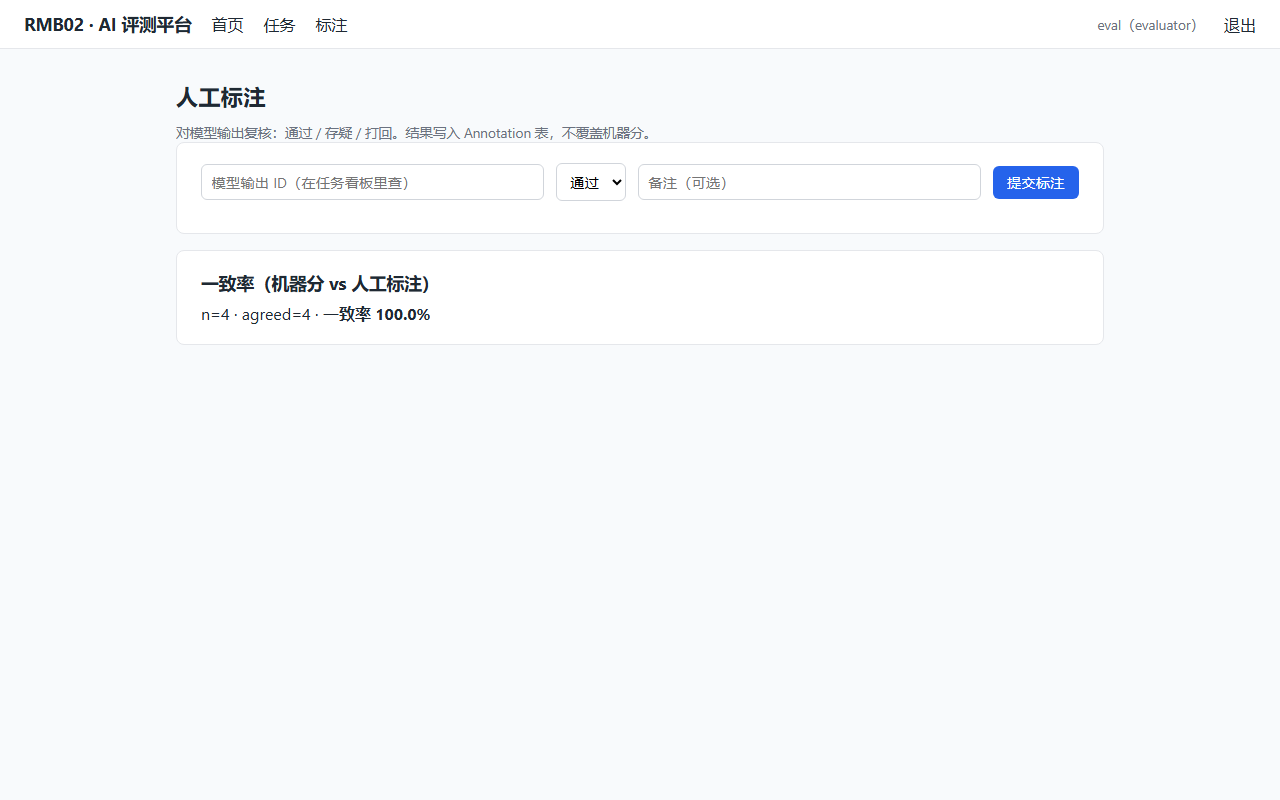
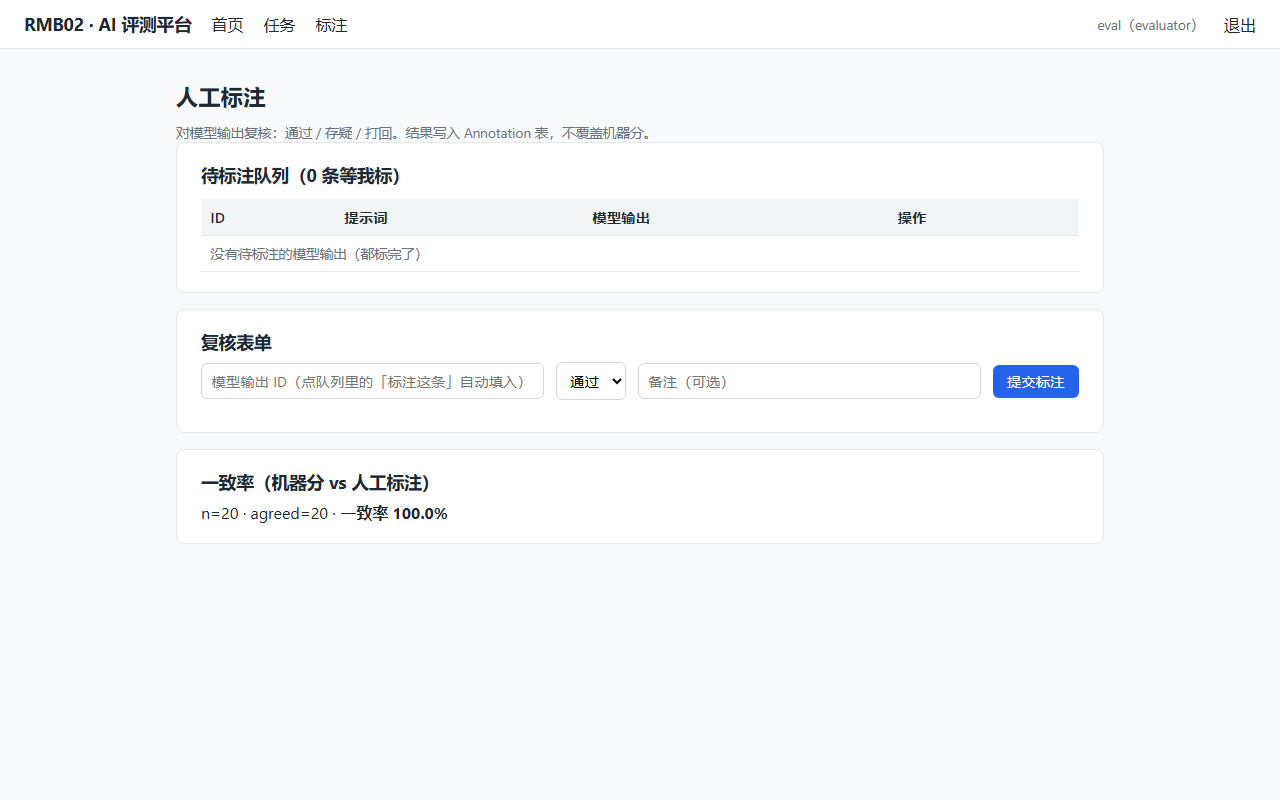
fix(终验): 硬编码路径改相对/skipif + README 界面节 + 标注待标注队列 + demo_seed 真跑(通过率非0)+n=20

diff --git a/templates/annotate.html b/templates/annotate.html
@@ -4,8 +4,29 @@
 <h1>人工标注</h1>
 <p class="muted">对模型输出复核：通过 / 存疑 / 打回。结果写入 Annotation 表，不覆盖机器分。</p>
 <div class="card">
+  <h2>待标注队列（{{ pending|length }} 条等我标）</h2>
+  <table>
+    <thead><tr><th>ID</th><th>提示词</th><th>模型输出</th><th>操作</th></tr></thead>
+    <tbody id="queue">
+      {% if pending %}
+        {% for p in pending %}
+        <tr>
+          <td>{{ p.id }}</td>
+          <td>{{ p.prompt }}</td>
+          <td class="muted">{{ p.output[:80] }}{% if p.output|length > 80 %}…{% endif %}</td>
+          <td><button class="ghost" onclick="fillForm({{ p.id }}, '{{ p.prompt }}')">标注这条</button></td>
+        </tr>
+        {% endfor %}
+      {% else %}
+        <tr><td colspan="4" class="muted">没有待标注的模型输出（都标完了）</td></tr>
+      {% endif %}
+    </tbody>
+  </table>
+</div>
+<div class="card">
+  <h2>复核表单</h2>
   <div class="row" style="margin-bottom:0.75rem;">
-    <input id="mo_id" placeholder="模型输出 ID（在任务看板里查）" style="flex:1;">
+    <input id="mo_id" placeholder="模型输出 ID（点队列里的「标注这条」自动填入）" style="flex:1;">
     <select id="verdict">
       <option value="agree">通过</option>
       <option value="doubt">存疑</option>
@@ -16,6 +37,31 @@
   </div>
   <div class="error" id="err" style="display:none;"></div>
   <div id="ok" style="display:none;color:#15803d;margin-top:0.5rem;"></div>
+  <script>
+  function fillForm(id, prompt) {
+    document.getElementById('mo_id').value = id;
+    document.getElementById('ok').style.display = 'none';
+    document.getElementById('err').style.display = 'none';
+  }
+  async function submitAnn() {
+    const r = await fetch('/api/annotations', {
+      method: 'POST', headers: {'Content-Type': 'application/json'},
+      body: JSON.stringify({model_output_id: parseInt(document.getElementById('mo_id').value),
+                            verdict: document.getElementById('verdict').value,
+                            note: document.getElementById('note').value || null}),
+    });
+    if (r.ok) {
+      document.getElementById('err').style.display='none';
+      document.getElementById('ok').style.display='block';
+      document.getElementById('ok').textContent = '标注成功';
+      setTimeout(()=>location.reload(), 800);
+    } else {
+      const d = await r.json();
+      document.getElementById('err').style.display='block';
+      document.getElementById('err').textContent = d.error || '提交失败';
+    }
+  }
+  </script>
 </div>
 <div class="card">
   <h2>一致率（机器分 vs 人工标注）</h2>

diff --git a/demo_seed.py b/demo_seed.py
@@ -81,14 +81,18 @@ def seed():
             db.session.commit()
             db.session.refresh(task)
 
-        # 用例（幂等：清旧的重新生成）
-        from models import Case
+        # 用例（幂等：清旧的重新生成）+ 真跑一遍（通过率非 0）
+        from models import Case, CaseRun
+        from runner import run_case
+        from demo_target.app import app as demo_app
+
         Case.query.filter_by(task_id=task.id).delete()
         contracts = Contract.query.filter_by(target_id=target.id).all()
         cc = [{'method': c.method, 'path': c.path,
                'fields': __import__('json').loads(c.fields_json or '[]')}
               for c in contracts]
         cases = generate_all(cc)
+        valid_cases = []
         for case in cases:
             case.task_id = task.id
             status, layer, reason = validate_case(case, cc)
@@ -96,11 +100,28 @@ def seed():
             case.invalid_layer = layer
             case.invalid_reason = reason
             db.session.add(case)
+            if status == 'valid':
+                valid_cases.append(case)
+        db.session.flush()
+
+        # 🔴 真跑：valid 用例打 demo_target（离线 test_client，不依赖外部服务）
+        run_count = 0
+        for case in valid_cases:
+            result = run_case(case, base_url='', offline_app=demo_app)
+            db.session.add(CaseRun(
+                case_id=case.id,
+                status_code=result['status_code'],
+                response_body=result['response_body'],
+                passed=result['passed'],
+                error=result['error'],
+                duration_ms=result['duration_ms'],
+            ))
+            if result['passed']:
+                run_count += 1
         db.session.commit()
 
-        # 模型输出 + 打分（n=5，模拟分数带轻微波动）
+        # 模型输出 + 打分（n=20，模拟分数带轻微波动 —— 一致率样本补到 ≥20）
         ModelOutput.query.filter_by(task_id=task.id).delete()
-        Score.query.filter_by(model_output_id=None).delete()
         outputs = []
         prompts = [
             ('健康检查返回什么', '{"status": "ok", "service": "rmb02"}'),
@@ -109,33 +130,41 @@ def seed():
             ('登录演示', '{"token": "tok-demo-0"}'),
             ('统计接口', '{"items": 2, "tokens": 1}'),
         ]
-        for i, (prompt, output) in enumerate(prompts):
+        # 扩到 20 条：5 条基础 + 15 条变体
+        all_prompts = list(prompts)
+        for i in range(15):
+            base = prompts[i % 5]
+            all_prompts.append((f'{base[0]}（变体{i}）', base[1]))
+        for i, (prompt, output) in enumerate(all_prompts):
+            high = i < 16   # 前 16 条机器高分，后 4 条低分（一致率有区分度）
+            total = 85.0 if high else 30.0
             mo = ModelOutput(task_id=task.id, prompt=prompt, output=output,
                              model='local-rule', run_index=0)
             db.session.add(mo)
             db.session.flush()
             db.session.add(Score(model_output_id=mo.id,
-                                 accuracy=80 + i * 2, relevance=85,
+                                 accuracy=total, relevance=85,
                                  format=90, hallucination=100,
-                                 total=round(80 + i * 2 * 0.4 + 85 * 0.3 + 90 * 0.2 + 100 * 0.1, 1),
-                                 run_index=0))
+                                 total=total, run_index=0))
             outputs.append(mo.id)
         db.session.commit()
 
-        # 标注（标注员 id=2 annotator）+ 结算（评测工程师 id=1）
-        for out_id in outputs[:4]:
+        # 标注（标注员 id=2 annotator，n=20：16 条 agree + 4 条 doubt）+ 结算
+        for i, out_id in enumerate(outputs):
+            verdict = 'agree' if i < 16 else 'doubt'
             if not Annotation.query.filter_by(model_output_id=out_id,
                                               annotator_id=2).first():
                 db.session.add(Annotation(model_output_id=out_id,
-                                          annotator_id=2, verdict='agree'))
+                                          annotator_id=2, verdict=verdict))
         if not Settlement.query.filter_by(annotator_id=2, task_id=task.id).first():
             db.session.add(Settlement(annotator_id=2, task_id=task.id,
-                                      case_count=4, unit_price=0.5, amount=2.0))
+                                      case_count=20, unit_price=0.5, amount=10.0))
         db.session.commit()
 
         # 🔴 控制台 GBK 不编 emoji，用纯文本（经验库铁律：中文/特殊字符落盘再读）
         print(f'[seed] demo ready: target={target.id} task={task.id} '
-              f'outputs={len(outputs)} annotations=4 settlement=2.0元')
+              f'cases={len(valid_cases)} passed={run_count} '
+              f'outputs={len(outputs)} annotations=20 settlement=10.0元')
 
 
 if __name__ == '__main__':

diff --git a/api.py b/api.py
@@ -225,6 +225,23 @@ def register_api_blueprint():
 
         return jsonify(agreement_rate())
 
+    @bp.get('/api/annotations/pending')
+    @login_required('annotate')
+    def pending_annotations():
+        """🔴 待标注队列（产品闭环）：该标注员还没标过的模型输出。
+
+        标注员登录后应看到「有 N 条等我标」，点进去标 —— 不是手动输 ID。
+        """
+        from models import Annotation, ModelOutput
+
+        annotated = {a.model_output_id for a in Annotation.query.all()}
+        rows = ModelOutput.query.order_by(ModelOutput.id).all()
+        pending = [mo for mo in rows if mo.id not in annotated]
+        return jsonify([{
+            'id': mo.id, 'prompt': mo.prompt[:80], 'output': mo.output[:200],
+            'task_id': mo.task_id,
+        } for mo in pending])
+
     @bp.post('/api/settlements')
     @login_required('manage_targets')
     def create_settlement():

diff --git a/pages.py b/pages.py
@@ -44,8 +44,20 @@ def register_pages_blueprint():
     @login_required('view_all')
     def annotate():
         from annotation import agreement_rate
+        from models import Annotation, ModelOutput
 
-        return render_template('annotate.html', agreement=agreement_rate())
+        # 🔴 待标注队列（产品闭环）：没标过的模型输出
+        annotated = {a.model_output_id for a in Annotation.query.all()}
+        pending = [mo for mo in ModelOutput.query.order_by(ModelOutput.id).all()
+                   if mo.id not in annotated]
+        return render_template(
+            'annotate.html',
+            agreement=agreement_rate(),
+            pending=[{
+                'id': mo.id, 'prompt': mo.prompt[:80], 'output': (mo.output or '')[:200],
+                'task_id': mo.task_id,
+            } for mo in pending],
+        )
 
     @bp.get('/report/<int:task_id>')
     @login_required('view_all')

diff --git a/README.md b/README.md
@@ -40,6 +40,21 @@ docker build -t rmb02 . && docker run -p 5102:5102 -v rmb02-data:/app/data rmb02
 
 ---
 
+## 界面
+
+| 任务列表 | 人工标注 |
+|---|---|
+| ![任务列表](screenshots/02-首页任务列表.png) | ![标注](screenshots/03-标注页.png) |
+
+| 评测报告 | 登录 |
+|---|---|
+| ![报告](screenshots/04-报告页.png) | ![登录](screenshots/01-登录页.png) |
+
+> 截图来自 `demo_seed.py` 预置演示数据（评测任务 → 用例 → 打分 → 标注 → 结算全流程）。
+> 报告页展示四维度平均分 + 标注一致率 + 结算金额，**每处都带 n**。
+
+---
+
 ## 二、功能
 
 | 模块 | 能力 |
